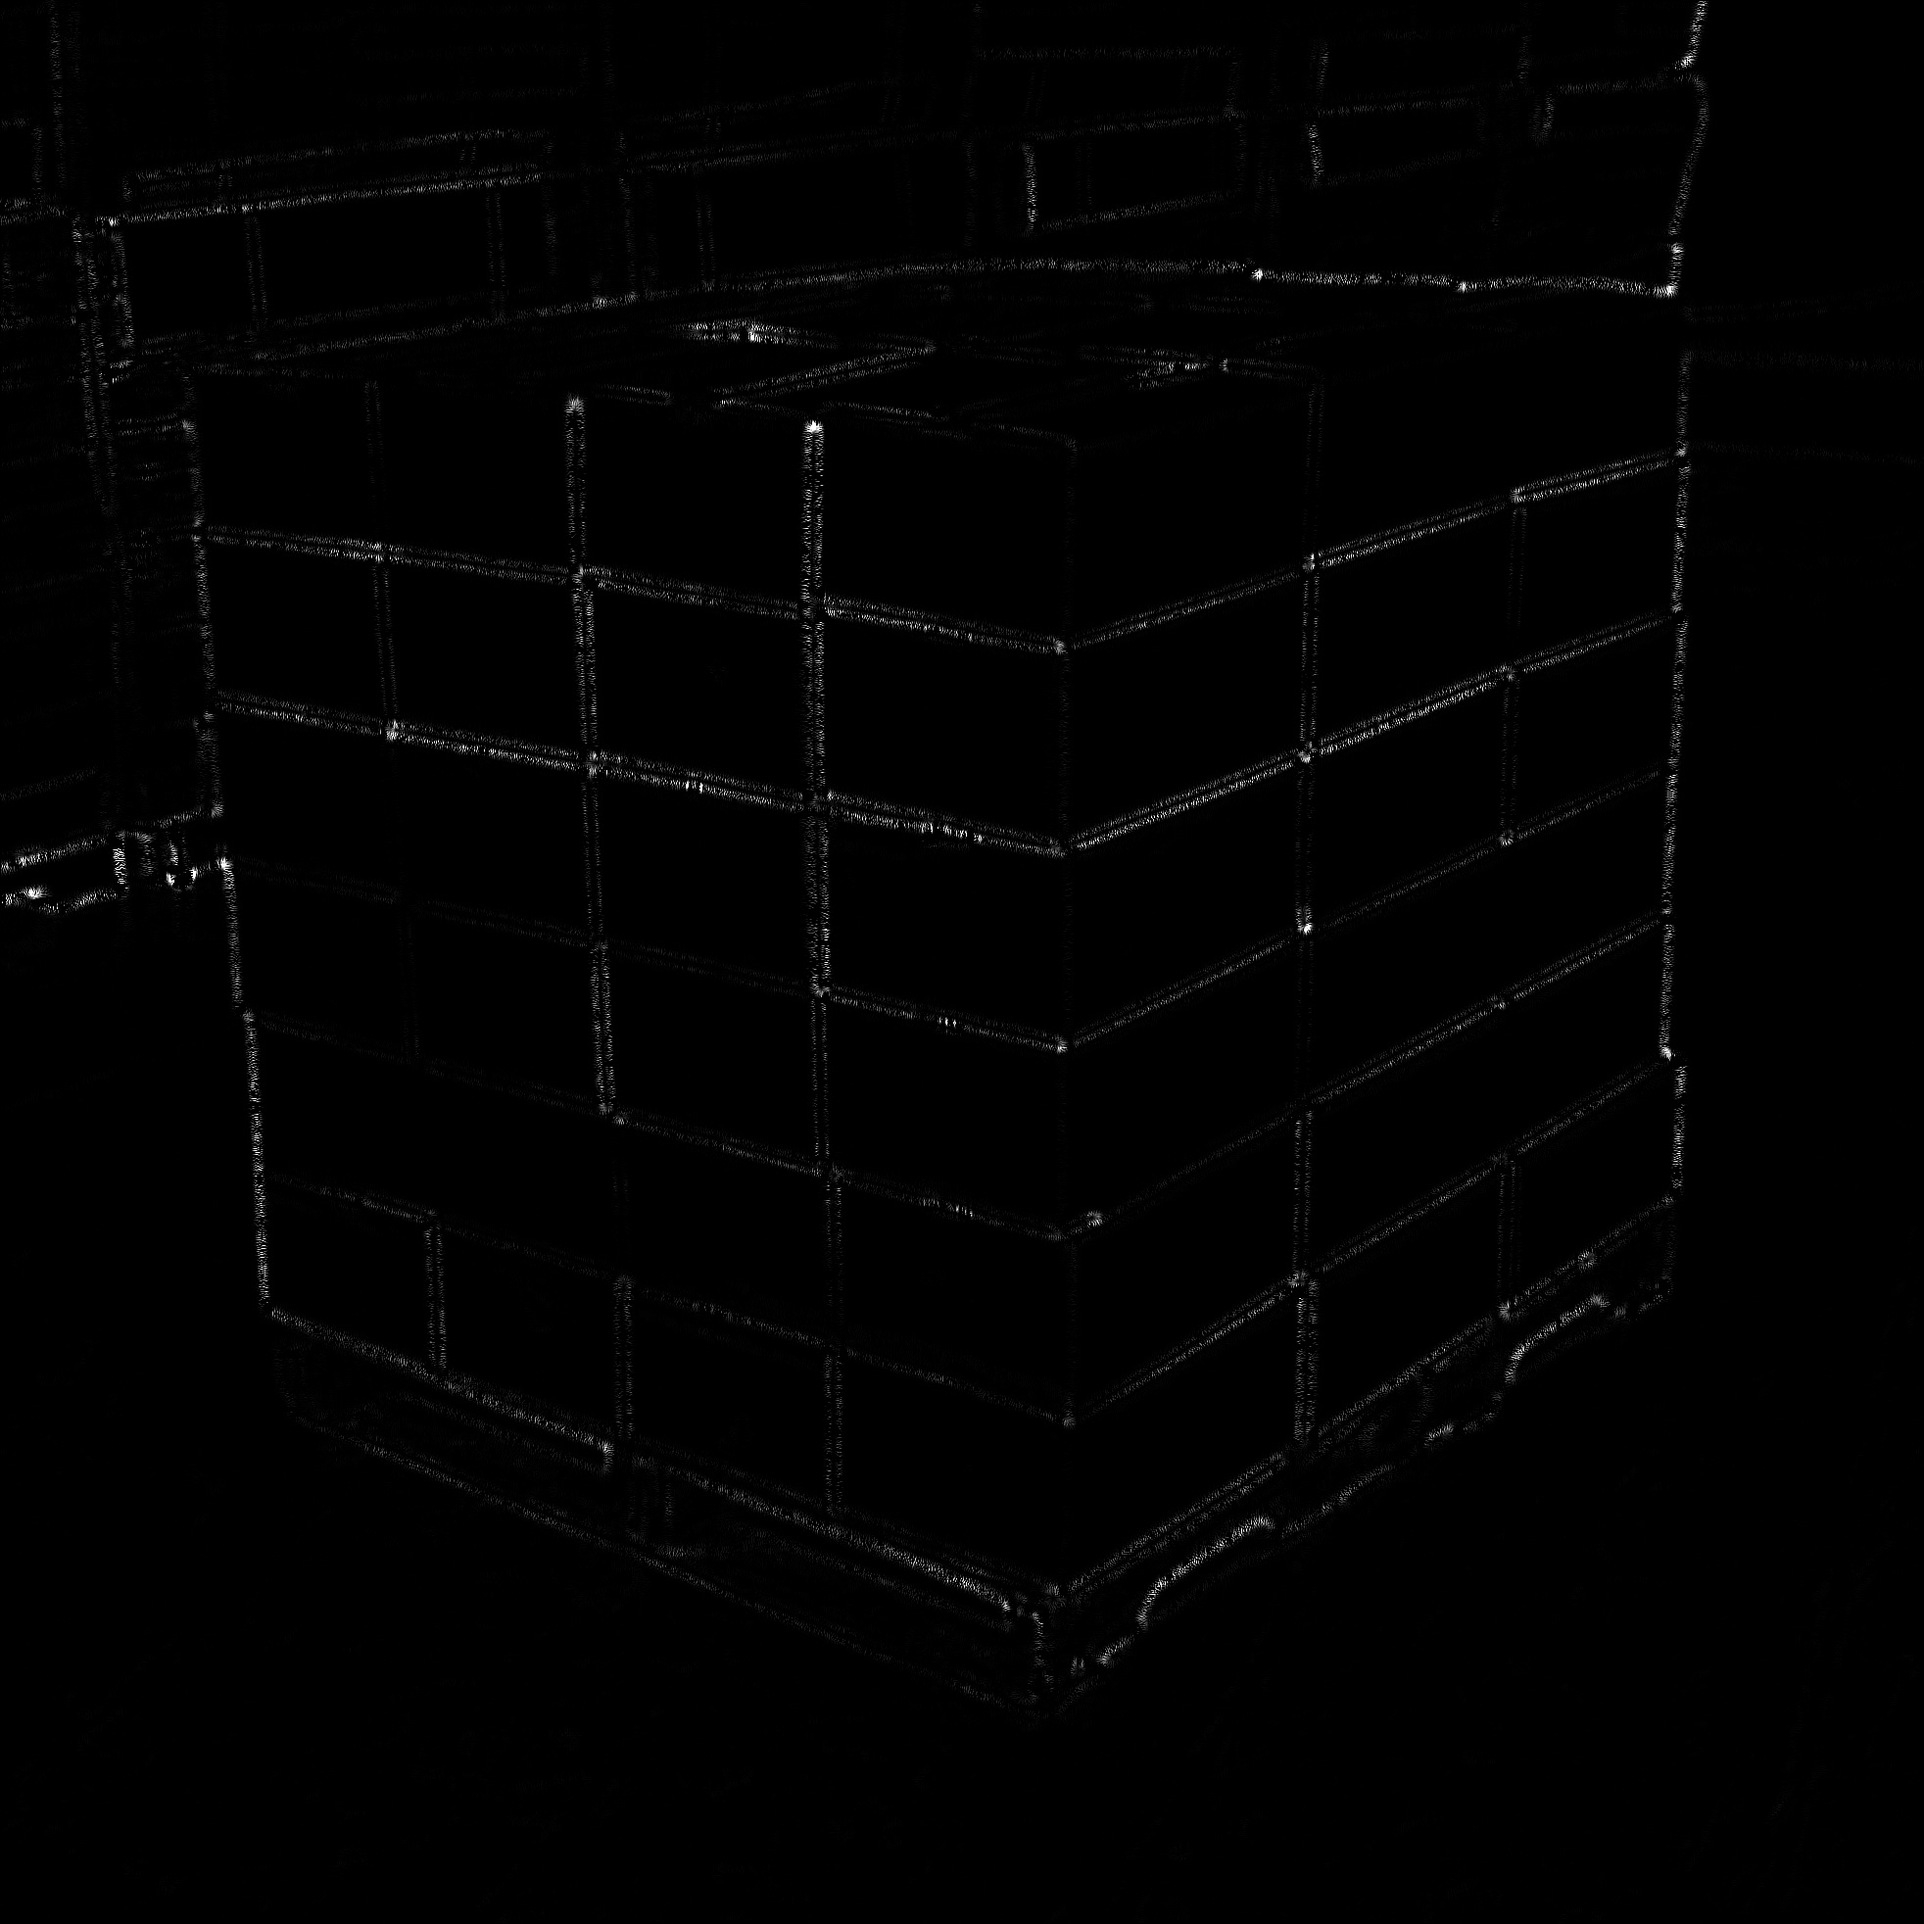
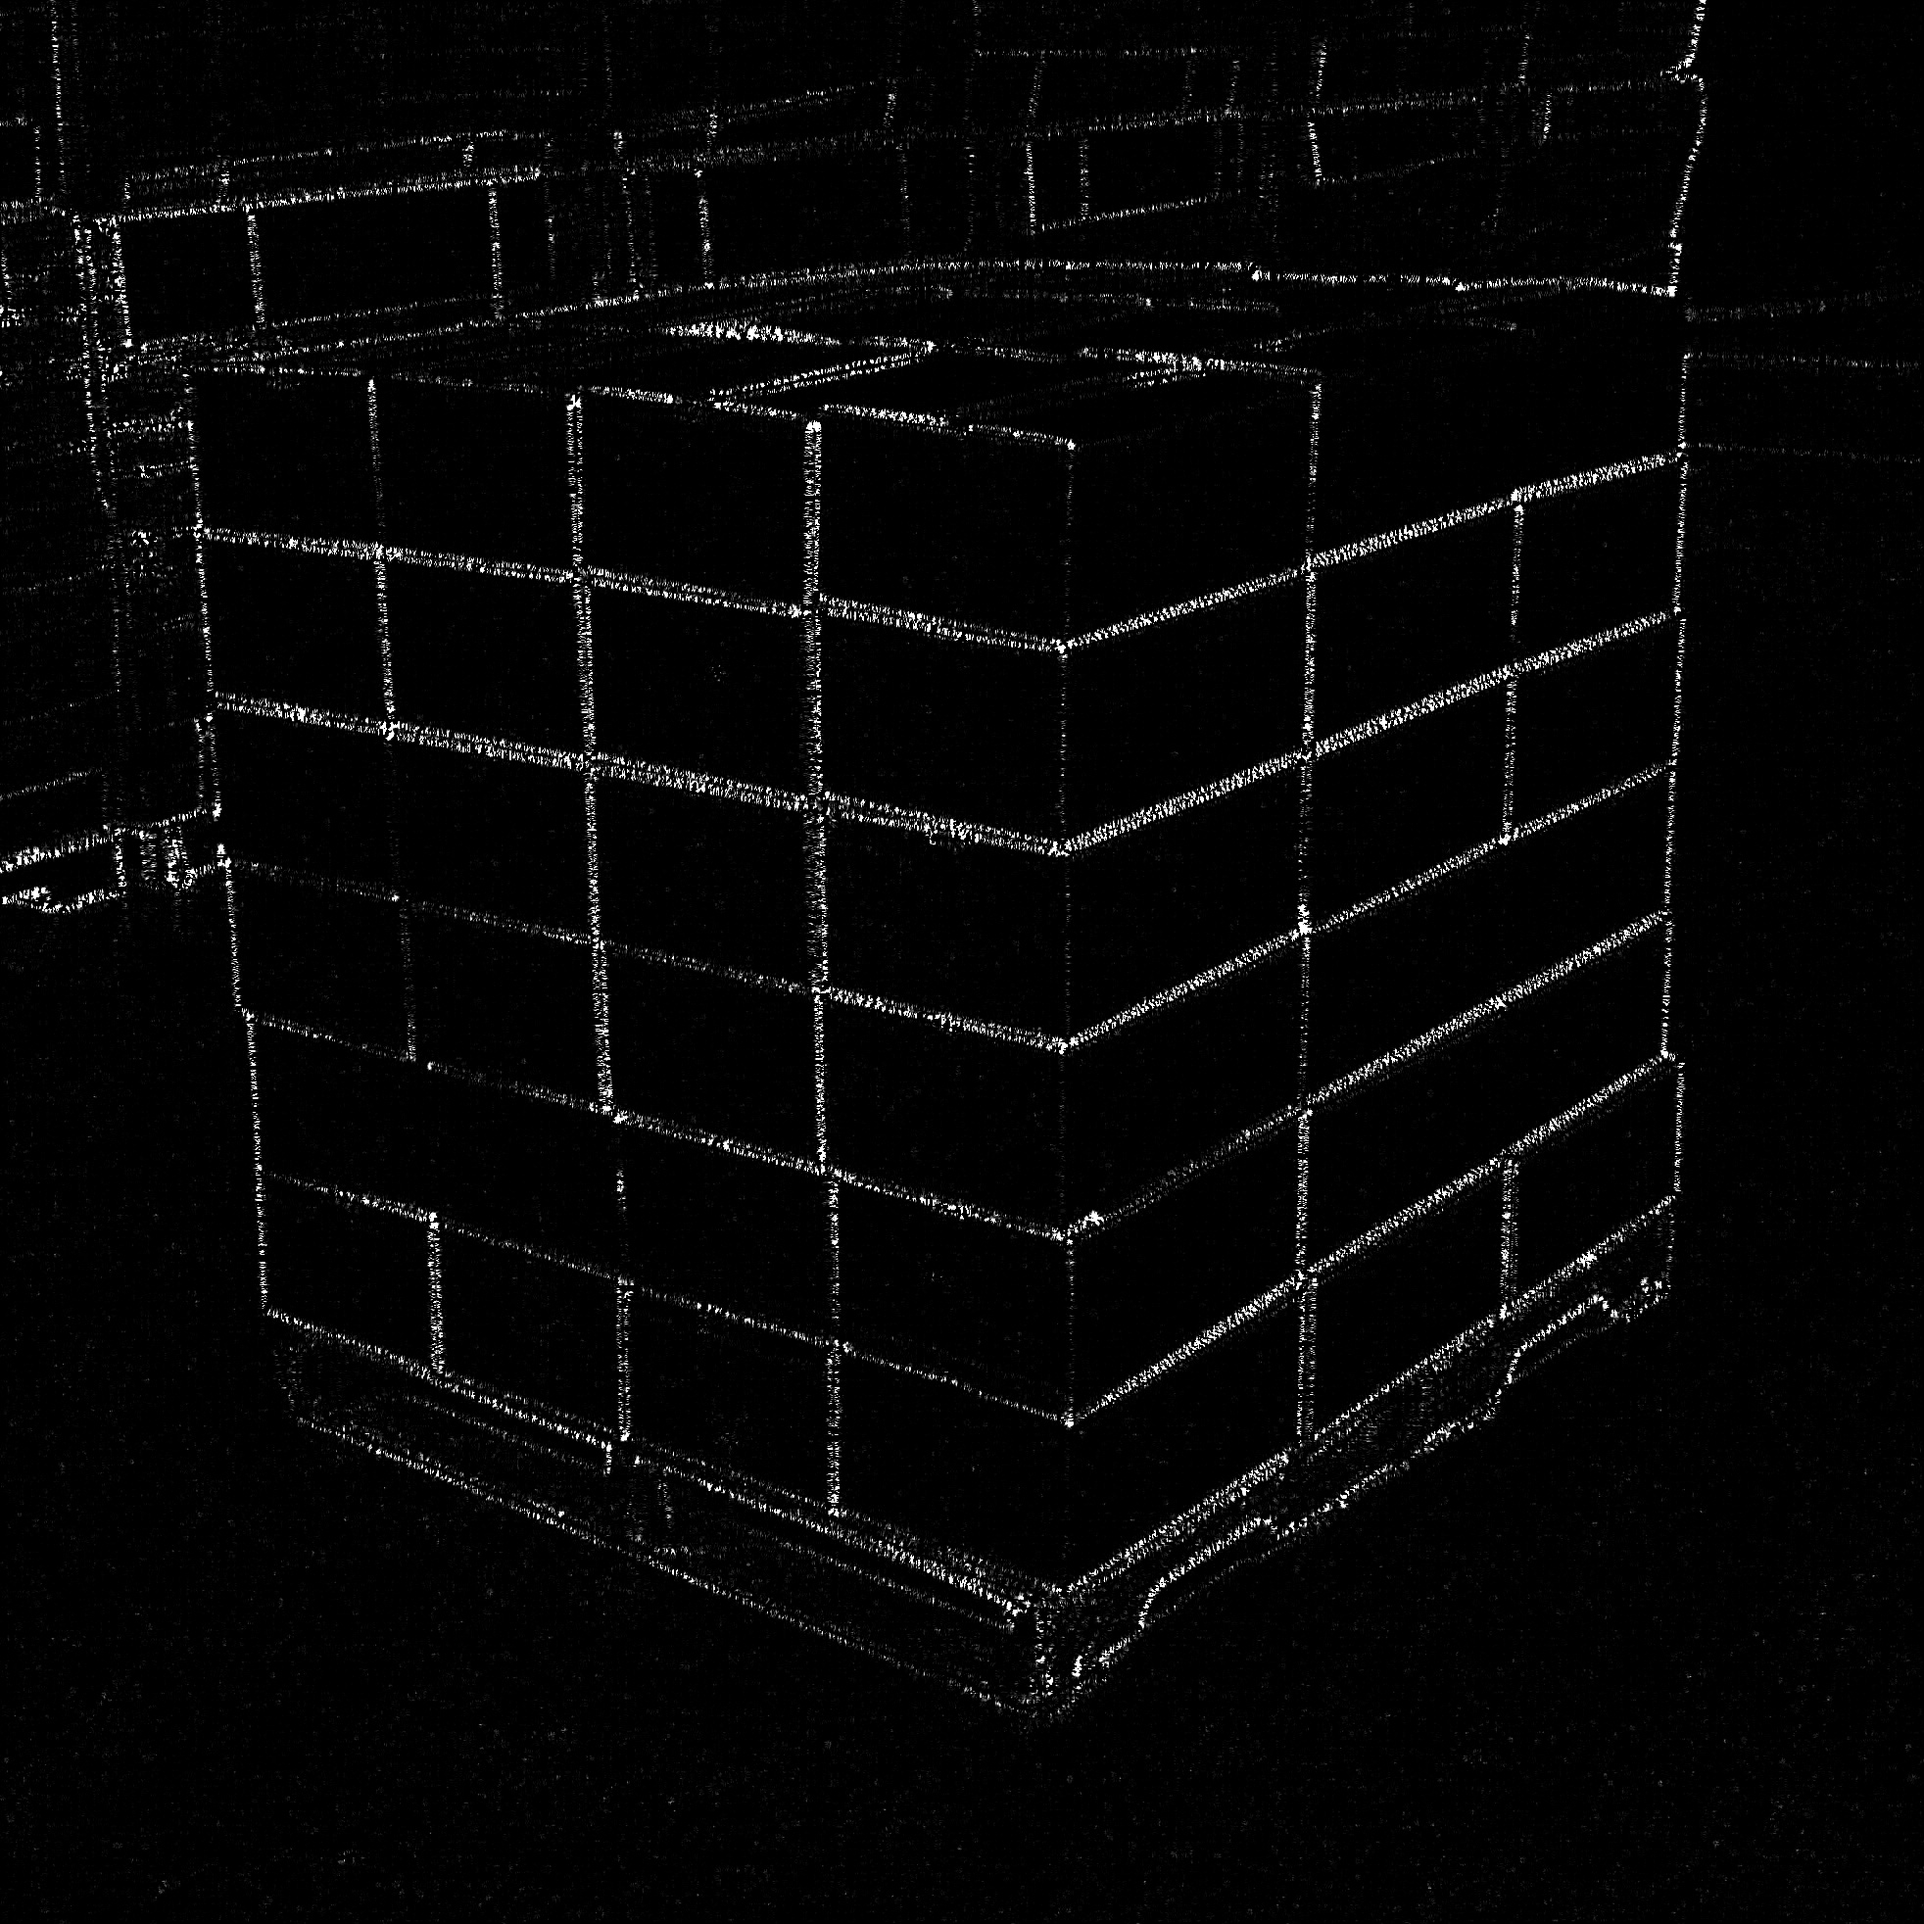
trying line detection now

diff --git a/CV-Boxes/test2.cpp b/CV-Boxes/test2.cpp
@@ -3,6 +3,7 @@
 #include <opencv2/core/core.hpp>
 #include <opencv2/highgui/highgui.hpp>
 #include <opencv2/imgproc/imgproc.hpp>
+#include <opencv2/imgcodecs.hpp> // might need?
 using namespace cv;
 
 #include <iostream>
@@ -14,9 +15,13 @@ const double cornerK = 0.04;		// This one might need some finesse.
 const int cornerThreshold = 100;	// Much lower or higher seems to identify too many/too few circles respectively.
 
 //originally 2.0 and 7,7
-const double sigma = 50.0; //sigma in x and y for gaussian blur
+const double sigma = 0.75; //sigma in x and y for gaussian blur
 const Size kSize = Size(11,11); //kernel size for gaussian blur
 
+//PURPOSE: display image in GUI and save to disk as a .jpg
+//PRE: input image exists
+//POST: new GUI window is display image then saves image to disk.
+//The same name is used for the GUI window as for the saved file.
 void displayWindow(string name, Mat& const image) {
 	namedWindow(name, WINDOW_KEEPRATIO);
 	//resizeWindow("Grey", 500, 500);
@@ -50,6 +55,10 @@ Mat cornerDetector(Mat& image) {
 }
 
 
+//PURPOSE: main method
+//PRE: image is in the same location as this program
+//IMAGE PRECONDITIONS: (all conditions we require for the box counting to work, such as angle, perspective, etc)
+//POST: 
 int main(int argc, const char* argv[]) {
 
 	//testing with: cube1.jpg, full-15.jpg, full-72.jpg
@@ -77,11 +86,86 @@ int main(int argc, const char* argv[]) {
 	preCornerDetect(precorner, precorner, 3, 4); //sobel kernel size 3 works best
 	displayWindow("precorner", precorner);
 
+	//let's see if the saved image is different from what's in memory...
+	//Mat precorner_saved = imread("precorner.jpg"); //comment back in to test
+	//displayWindow("saved", precorner_saved);
+	//nope, it's definitely different.
 
 	//use Harris Corner detector
-	//Mat corners = blur.clone();
+	//Mat corners = precorner_saved.clone(); //comment back in to test
 	//cornerDetector(corners);
 	//displayWindow("Corners", corners);
+
+	//using what's in memory
+	/*
+	precorner.convertTo(precorner, CV_32F);
+	cornerHarris(precorner, precorner, 2, 3, 0.04); //in, out, blockSize, kSize, k free param
+	displayWindow("HarrisCorner_mem", precorner);
+	*/
+
+	//or try Harris corner detection on just the blurred image, without the precorner detection
+	Mat harris = blur.clone();
+	harris.convertTo(harris, CV_32F);
+	cornerHarris(harris, harris, 2, 3, 0.04);
+	//displayWindow("Harris_nopre", harris);	
+
+	//cornerDetector(harris);
+	//displayWindow("Harris_nopre_custom", harris);
+
+
+	/* not currently working...
+	//using the saved-to-disk output from precorners operation
+	corners.convertTo(corners, CV_32F);
+	cornerHarris(corners, corners, 2, 3, 0.04);
+	displayWindow("HarrisCorner_saved", corners);
+	*/
+
+	//try edge detect on the precorner image
+	Mat edges = imread("precorner.jpg", IMREAD_GRAYSCALE);
+	//note OpenCV Canny edge detector blurs, finds intensity gradient, does non-maxima surpression, and hysteresis thresholding
+	//all in the canny method. No need to do it seperately (though I guess it can't hurt to have it pre-blurred...)
+	//edges.convertTo(edges, CV_8UC1);
+	Canny(edges, edges, 100, 300, 3); //in, out, low threshold, high threshold, kernel size 3-7
+	displayWindow("Edges", edges);
+	
+	/*
+	//code for line segment detection borrowed from:
+	//https://docs.opencv.org/3.4/d3/dff/samples_2cpp_2lsd_lines_8cpp-example.html#a9
+	Ptr<LineSegmentDetector> ls = createLineSegmentDetector(LSD_REFINE_STD);
+	vector<Vec4f> lines_std;
+	ls->detect(edges, lines_std);
+
+	ls->drawSegments(edges, lines_std);
+	displayWindow("LineSegs", edges);*/
+
+	//the above doesn't give very good results
+	//so what if we adjust the blur? Let's start over...
+	Mat image = imread("full-72.jpg", IMREAD_GRAYSCALE); //read in in greyscale
+	Size size = Size(5, 5);
+	double sigma2 = 2.0;
+	GaussianBlur(image, image, size, sigma2, sigma2);
+	Canny(image, image, 50, 75, 3);
+	displayWindow("Edges2", image);
+	//code for line segment detection borrowed from:
+//https://docs.opencv.org/3.4/d3/dff/samples_2cpp_2lsd_lines_8cpp-example.html#a9
+	Ptr<LineSegmentDetector> ls = createLineSegmentDetector(LSD_REFINE_STD);
+	vector<Vec4f> lines_std;
+	ls->detect(image, lines_std);
+	ls->drawSegments(image, lines_std);
+	displayWindow("LineSegs2", image);
+	//the above block does somewhat better.
+	//either way, we have the lines segments saved in the ls vector, so we can do something with them.
+	//I'm not sure how line segments work in OpenCV, though. Something to look more into.
+
+	//Another thing to try would be HoughLinesP
+	//as suggested in the process here: https://stackoverflow.com/questions/31772804/opencv-detect-cubes-corners
+
+
+
+
+	//doing it without the blur
+	//Canny(grey, grey, 50, 200, 3);
+	//displayWindow("untreated", grey);
 
 
 	system("pause");
